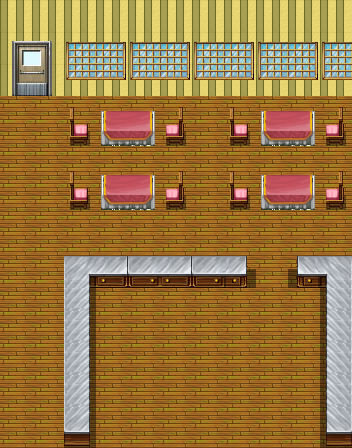
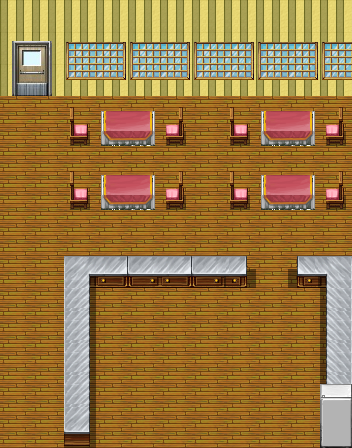
askForDrink and started catchDrink

Changed region(s): [[0.9062, 0.8438, 1.0, 1.0]]

diff --git a/web/nobugs/game.js b/web/nobugs/game.js
@@ -83,6 +83,7 @@ Game.init = function() {
   // (execute) and the infinite loop detection function.
   Blockly.JavaScript.addReservedWords('Game, code');
 
+  /* enabled this in future
   window.addEventListener('beforeunload', function(e) {
     if (Blockly.mainWorkspace.getAllBlocks().length > 2) {
       e.returnValue = BlocklyApps.getMsg('NoBugs_unloadWarning');  // Gecko.
@@ -90,10 +91,8 @@ Game.init = function() {
     }
     return null;
   });
-
-  // Example how can assign a method to a button
-  //  BlocklyApps.bindClick('captureButton', Game.createImageLink);
-
+ */
+  
   var defaultXml = "";
   if (Game.mission === '2') {
 	  defaultXml =
@@ -251,14 +250,23 @@ Game.init = function() {
 			  '  <value name="BOOL">'+
 			  '    <block type="logic_negate" id="25" inline="false">'+
 			  '      <value name="BOOL">' +
-			  '  <block type="ask_isThereACustomer">' +
-			  '  </block>' +
+					  '  <block type="ask_isThereACustomer">' +
+					  '  </block>' +
 			  '      </value>'+
 			  '    </block>'+
 			  '  </value>'+
 			  '  <next>'+
-			    '  <block type="move_goToDisplay">' +
-			    '  </block>' +
+			  '     <block type="variables_set" inline="true">' +
+			  '        <field name="VAR">drink</field>' +
+			  '            <value name="VALUE">' +
+						  '  <block type="ask_askForDrink">' +
+						  '  </block>' +
+			  '            </value>' +
+			  '         <next>'+
+					    '  <block type="move_goToCooler">' +
+					    '  </block>' +
+  			        '   </next>' +
+			  '     </block>' +
 		     '   </next>' +
 			  '</block>'+
 	  '   </next>' +
@@ -557,6 +565,10 @@ Game.updateVariables = function() {
 	Game.jsInterpreter.variables.forEach(function(entry) {
 		var data = entry.scope.properties[entry.name].data;
 		if (data != undefined) {
+			if (data.type != undefined) {
+				data = "<p>" + data.qt + " X <img style='vertical-align: middle;' src='images/"+ data.type + ".png'/></p>";
+			}
+				
 			rows.push({"name":entry.name, "value": data});
 		}
 	});
@@ -628,8 +640,23 @@ Game.initApi = function(interpreter, scope) {
 	      return interpreter.createPrimitive(hero.isThereACustomer());
 	    };
 	    
-  interpreter.setProperty(scope, 'isThereACustomer',
-    interpreter.createNativeFunction(wrapper));
+    interpreter.setProperty(scope, 'isThereACustomer',
+      interpreter.createNativeFunction(wrapper));
+    
+    wrapper = function() {
+	      return interpreter.createPrimitive(hero.askForDrink());
+	    };
+	    
+    interpreter.setProperty(scope, 'askForDrink',
+      interpreter.createNativeFunction(wrapper));
+    
+    wrapper = function(o) {
+	      return interpreter.createPrimitive(hero.catchDrink(o));
+	    };
+	    
+    interpreter.setProperty(scope, 'catchDrink',
+	  interpreter.createNativeFunction(wrapper));
+
 };
 
 Game.highlightPause = false;
@@ -642,7 +669,6 @@ Game.highlightBlock = function(id) {
     Blockly.mainWorkspace.highlightBlock(id);
 	if (Game.runningStatus === 2) { // if runs, doesnt need to update the variables
 		Game.updateVariables();	
-		//BlocklyApps.log.push(['high']);
 	}
     Game.highlightPause = true;
 };
@@ -694,6 +720,14 @@ Game.step = function(command, values) {
   
   	case 'MS' :
   		hero.changeSnackManPosition(values.shift(), values.shift(), values.shift(), values.shift());
+  		break;
+  		
+  	case 'OC' :
+  		hero.nextOpenCoolerImage();
+  		break;
+  		
+  	case 'CC' :
+  		hero.nextCloseCoolerImage();
   		break;
   		
   	case 'fail':

diff --git a/web/nobugs/language.js b/web/nobugs/language.js
@@ -121,3 +121,35 @@ Blockly.JavaScript['ask_askForFood'] = function(block) {
 	      '(' + value + ', \'block_id_' + block.id + '\');\n';
 	};
 
+Blockly.Blocks['ask_askForDrink'] = {
+		  // Block for moving forward or backwards.
+		  init: function() {
+		    this.setColour(160);
+		    this.setOutput(true, "DrinkOrder");
+		    this.appendDummyInput()
+		        .appendField('askForDrink');
+		    this.setTooltip(BlocklyApps.getMsg('SnackMan_askForDrinkTooltip'));
+		  }
+		};
+
+Blockly.JavaScript['ask_askForDrink'] = function(block) {
+	return ['askForDrink( )', Blockly.JavaScript.ORDER_FUNCTION_CALL];
+};
+
+Blockly.Blocks['prepare_catchDrink'] = {
+		  // Block for moving forward or backwards.
+		  init: function() {
+		    this.setColour(160);
+		    this.setOutput(true, "Drinks");
+		    this.appendValueInput("VALUE")
+		        .setCheck("DrinkOrder")
+		        .appendField('catchDrink');
+		    this.setTooltip(BlocklyApps.getMsg('SnackMan_catchDrinkTooltip'));
+		  }
+		};
+
+Blockly.JavaScript['prepare_catchDrink'] = function(block) {
+	 var value = Blockly.JavaScript.valueToCode(block, 'VALUE',
+		      Blockly.JavaScript.ORDER_NONE) || 'null';
+	return ['catchDrink( ' + value + ' )', Blockly.JavaScript.ORDER_FUNCTION_CALL];
+};

diff --git a/web/nobugs/customerman.js b/web/nobugs/customerman.js
@@ -35,14 +35,14 @@ CustomerManager.draw = function(ctx) {
 		customers[i].draw(ctx);
 };
 
-CustomerManager.isThereACustomerCounter = function(id) {
+CustomerManager.getCustomerCounter = function(id) {
 	
 	id = id - 1;
 	
 	for (var i=0; i<customers.length; i++)
 	  if (customers[i].currentNode.id === CustOpt.counter[id])
-		return true;
+		return customers[i];
 	
-	return false;
+	return null;
 };
 

diff --git a/web/nobugs/sprite.js b/web/nobugs/sprite.js
@@ -6,7 +6,10 @@ var Sprite = {};
 Sprite = function(options) {
 	this.frameIndex = 0 ;
     this.tickCount = 0;
-    this.ticksPerFrame = options.ticksPerFrame || 1;
+    if (options.ticksPerFrame === undefined)
+    	this.ticksPerFrame = 1;
+    else
+    	this.ticksPerFrame = options.ticksPerFrame;
     this.numberOfFrames = options.numberOfFrames || 1;
     this.horzSeq = options.horzSeq;
     

diff --git a/web/nobugs/customer.js b/web/nobugs/customer.js
@@ -153,3 +153,7 @@ Customer.prototype.draw = function(ctx) {
 	}
 		
 };
+
+Customer.prototype.askForDrink = function() {
+	return {qt:1, type:"$$coke"};
+};
